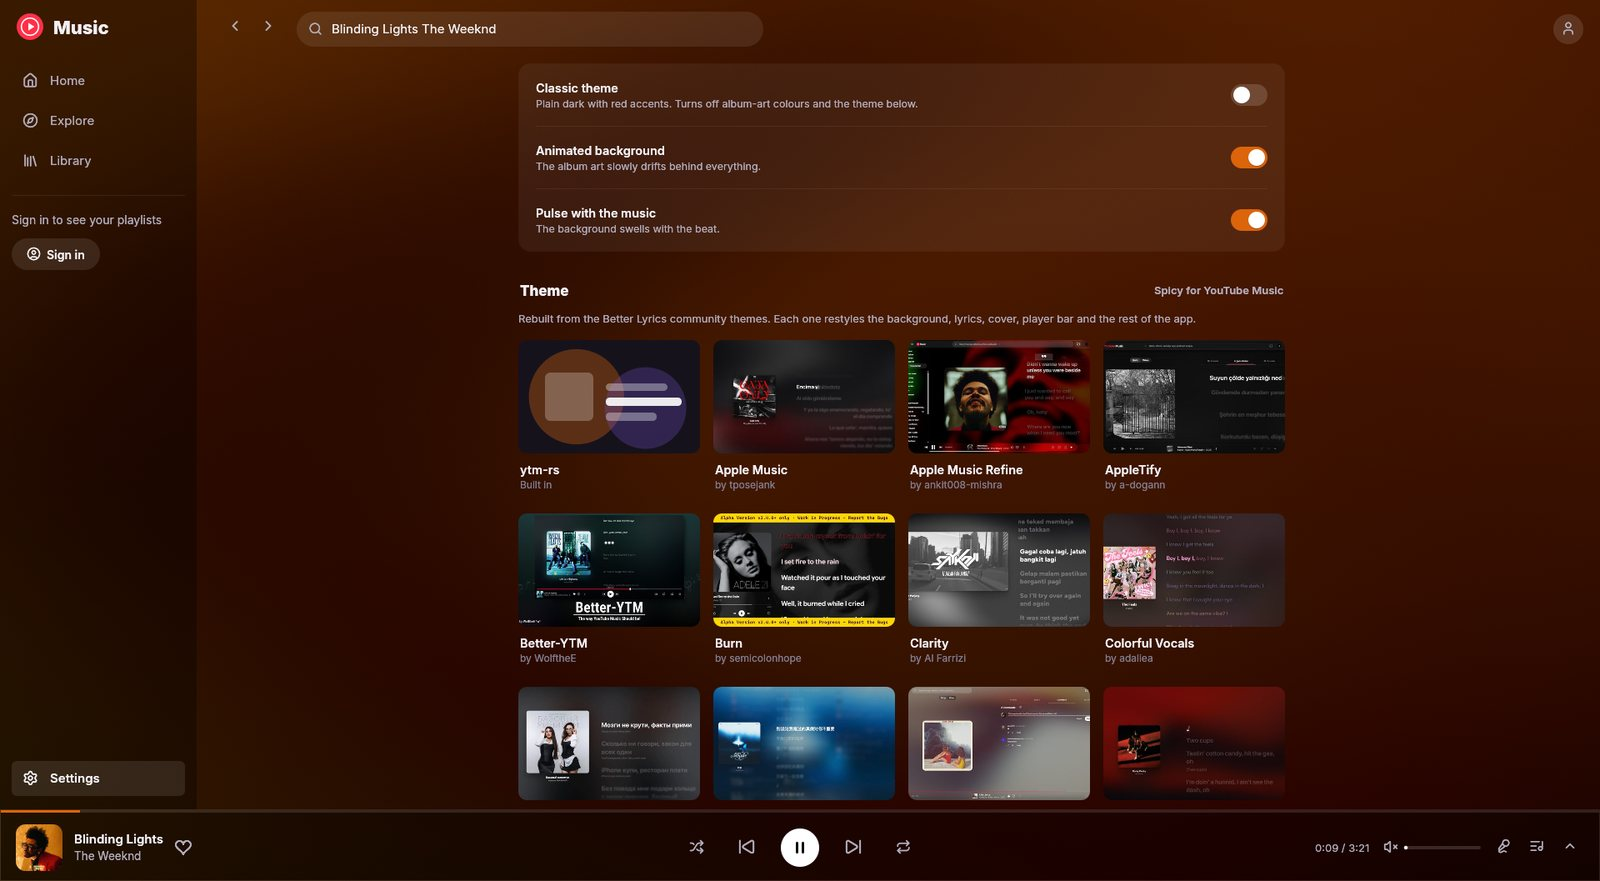
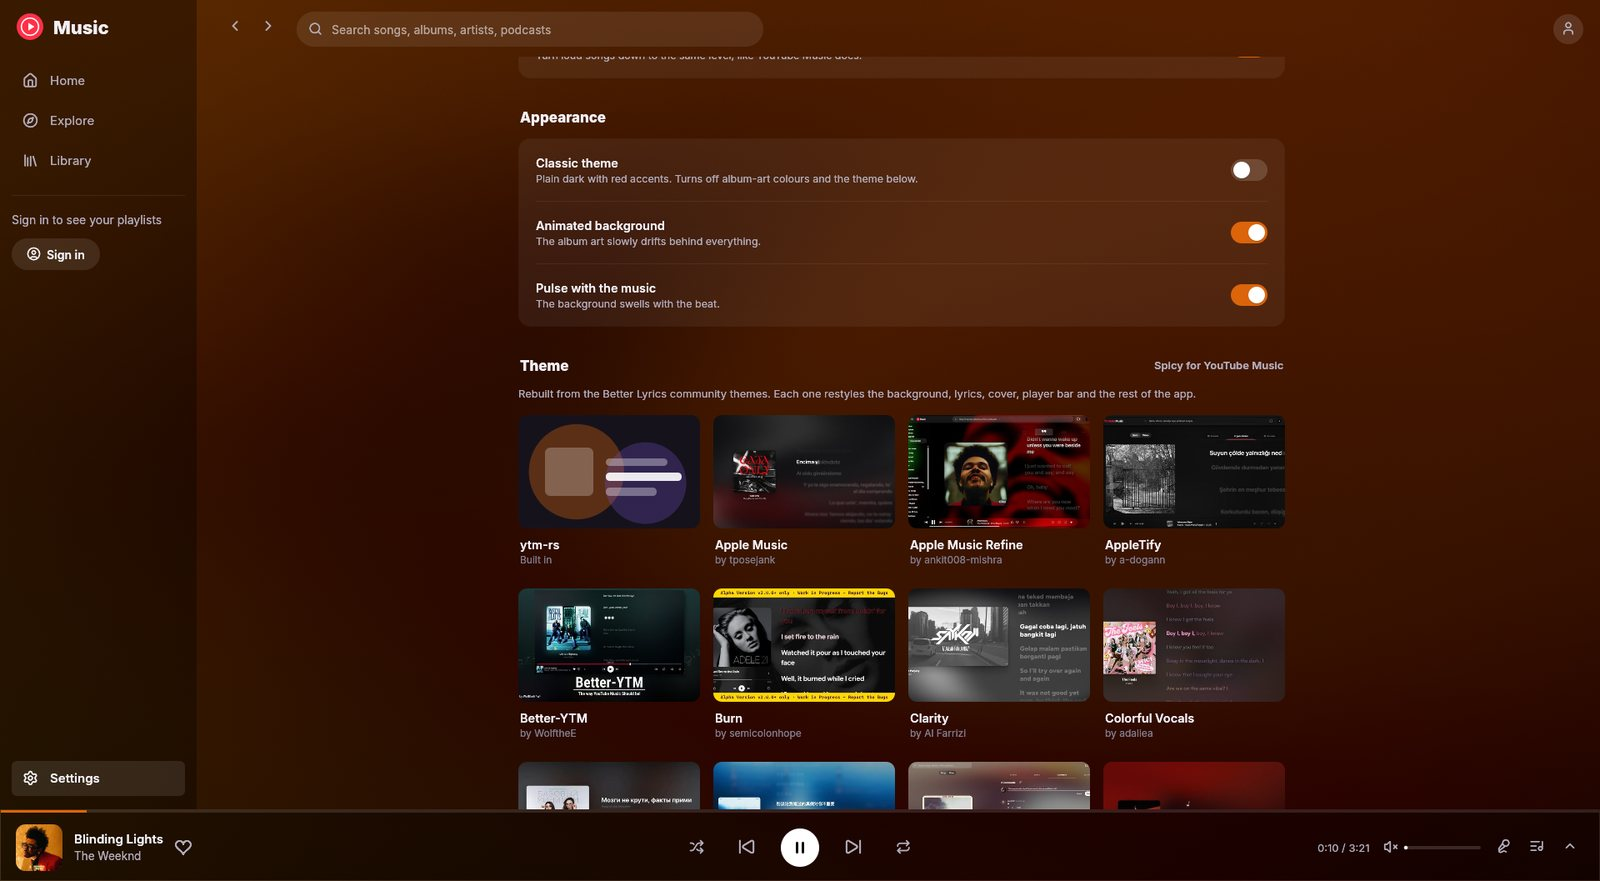
README: add a home screenshot, clear the search box in the settings one
Dev hook: YTM_PAGE for a top-level page clears the YTM_SMOKE query from the
search box.

diff --git a/src/ui/mod.rs b/src/ui/mod.rs
@@ -329,6 +329,10 @@ impl App {
             app.search_text = q.clone();
             app.go(Page::Search(q));
         }
+        // An explicit page replaces the smoke search, so its query shouldn't linger.
+        if matches!(std::env::var("YTM_PAGE").as_deref(), Ok("home" | "explore" | "library" | "settings")) {
+            app.search_text.clear();
+        }
         match std::env::var("YTM_PAGE").as_deref() {
             Ok("home") => app.go(Page::Home),
             Ok("explore") => app.go(Page::Explore),

diff --git a/README.md b/README.md
@@ -31,6 +31,12 @@
 
 <table>
   <tr>
+    <td colspan="2"><img src="docs/screenshots/home.jpg" alt="Home with mood filters and today's biggest hits, a song playing"></td>
+  </tr>
+  <tr>
+    <td colspan="2" align="center">Home</td>
+  </tr>
+  <tr>
     <td><img src="docs/screenshots/artist.jpg" alt="The Weeknd's artist page with a large header image and his top songs, Blinding Lights playing"></td>
     <td><img src="docs/screenshots/settings-themes.jpg" alt="Settings with appearance switches and the theme gallery"></td>
   </tr>
